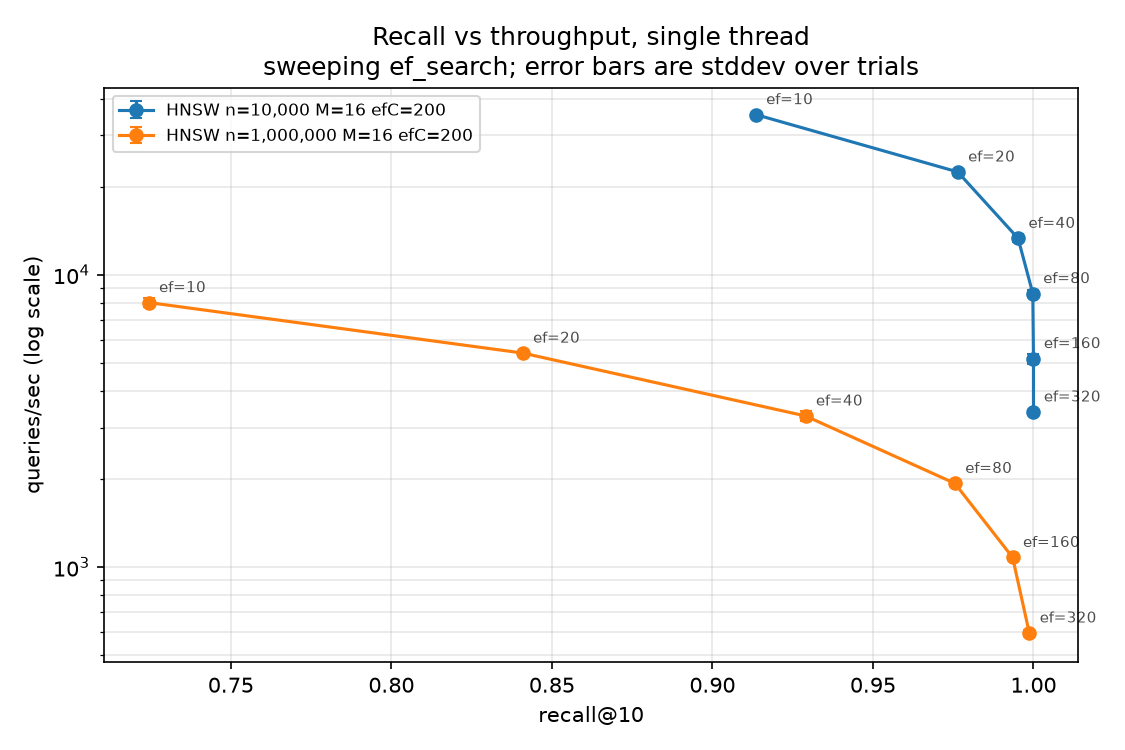
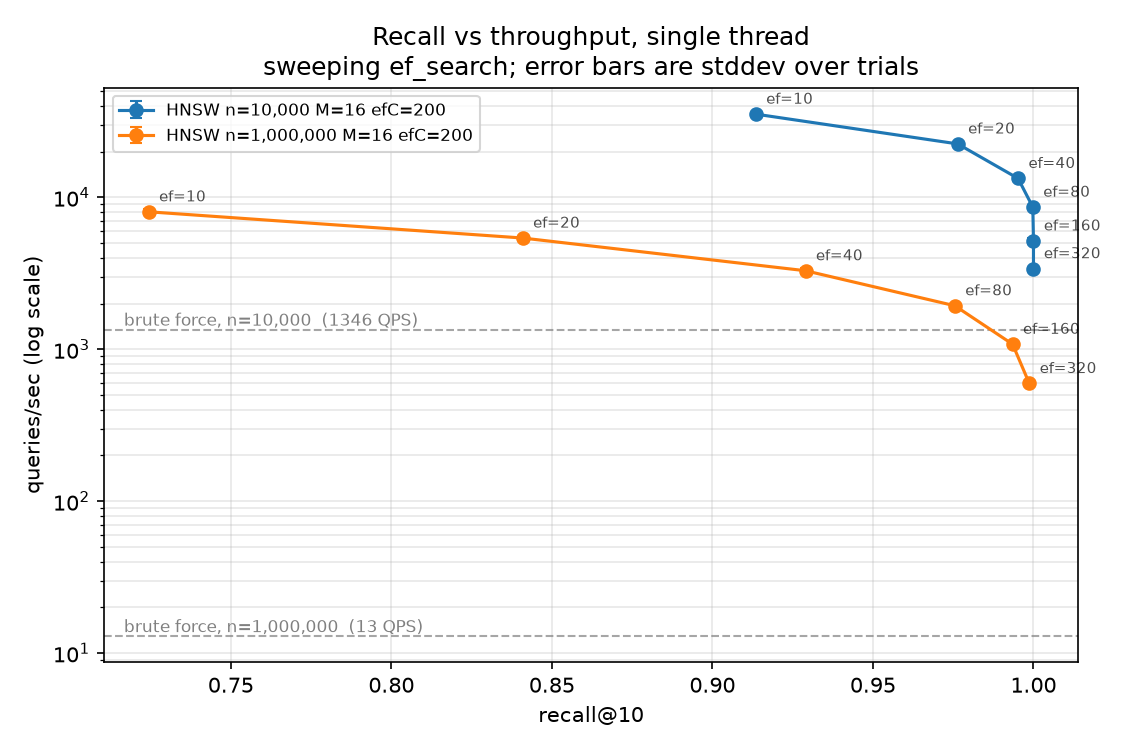
Log B-06: append-only provenance and a strict reader are in conflict
Readers must be version-tolerant and must announce what they ignored. A silent
skip is how a plot ends up missing half its data with nobody noticing.

diff --git a/BUGS.md b/BUGS.md
@@ -29,7 +29,11 @@ story is what the interview is actually about.
 | # | Symptom | Class | Cost |
 |---|---|---|---|
 | B-01 | `TopK` kept the wrong id when distances tied | silent recall loss | ~5 min |
-| B-02 | Fetch script hung 10 min on a blocked port, writing 0 bytes | measurement that measured nothing | ~20 min |
+| B-02 | Fetch script hung 4h48m on a blocked port, writing 0 bytes | measurement that measured nothing | ~20 min |
+| B-03 | Trust check counted the harness's own output as a code change | unreproducible by construction | ~5 min |
+| B-04 | Reported `recall@10 0.253` from a truncated base vs full ground truth | measurement that measured nothing | ~2 min |
+| B-05 | Layout A/B showed the *naive* layout faster; it never reproduced the pathology | measurement that measured nothing | ~25 min |
+| B-06 | One Phase 0 record broke every plot; append-only file outlived its schema | untested code path | ~10 min |
 
 **Phase 0 scorecard:** 7 landmines defused, 0 confirmed bugs, ~1.5 h. Four of the seven
 (L-01, L-02, L-05, L-06) were found by checking a tool *before* depending on it rather than after.
@@ -222,6 +226,32 @@ positive one.** `02_VECCORE.md` calls this comparison "the best performance stor
 the story is better for having been wrong first, because "1.14× sequential, 1.67× random, and here
 is why the second number is the one that matters for HNSW" is a real answer, and "3–10× faster" is
 folklore.
+
+---
+
+### B-06 · One Phase 0 record stopped every plot in the repo regenerating · 2026-08-22 · Phase 2
+
+**Symptom:** `plots.py` died with `KeyError: 'index'` on a `results/bench.jsonl` holding 17 records,
+12 of which were perfectly good.
+
+**Root cause:** `results/` is **append-only by design** — that is the whole point of an audit trail,
+and D10 rule 7 depends on old records staying put so a README number can always be traced back. But
+the record schema has changed twice since Phase 0: `index`, `index_params` and `n_base` were all
+added later. The plotting code indexed those keys directly, so the oldest line in the file killed
+the newest figure.
+
+**Fix:** a `REQUIRED` tuple and a `plottable()` filter that skips records missing any of it, and
+*says how many it skipped and which fields were missing* — rather than silently dropping them,
+which would be the other way to get this wrong.
+
+**Cost:** ~10 minutes, and it would have recurred at every phase boundary. Phases 3, 4 and 5 each
+add fields.
+
+**The tension worth naming, because it is a real design trade and not just a bug:** an append-only
+results file and a strictly-typed reader are in direct conflict. You cannot have both permanent
+provenance and a schema you are free to change. The resolution is that **readers must be
+version-tolerant, and must announce what they ignored** — a silent skip is how a plot ends up
+missing half its data with nobody noticing. Same shape as L-07: degrade, but never silently.
 
 ---
 

diff --git a/docs/plots/benchmark_table.md b/docs/plots/benchmark_table.md
@@ -1,14 +1,17 @@
 | index | n | params | recall@10 | QPS | p50 ms | p99 ms | index MiB | commit |
 |---|---|---|---|---|---|---|---|---|
+| flat | 10,000 | exact | 1.0000 | 1,346 ± 22 | 0.717 | 1.116 | 4.9 | `262b1b9` |
 | hnsw | 10,000 | M=16 efC=200 efS=10 | 0.9135 | 35,300 ± 266 | 0.027 | 0.048 | 6.3 | `24a82f7` |
-| hnsw | 10,000 | M=16 efC=200 efS=160 | 1.0000 | 5,168 ± 205 | 0.188 | 0.434 | 6.3 | `24a82f7` |
 | hnsw | 10,000 | M=16 efC=200 efS=20 | 0.9764 | 22,477 ± 406 | 0.043 | 0.094 | 6.3 | `24a82f7` |
-| hnsw | 10,000 | M=16 efC=200 efS=320 | 1.0000 | 3,395 ± 55 | 0.292 | 0.512 | 6.3 | `24a82f7` |
 | hnsw | 10,000 | M=16 efC=200 efS=40 | 0.9952 | 13,323 ± 431 | 0.073 | 0.149 | 6.3 | `24a82f7` |
 | hnsw | 10,000 | M=16 efC=200 efS=80 | 0.9998 | 8,623 ± 230 | 0.116 | 0.221 | 6.3 | `24a82f7` |
+| hnsw | 10,000 | M=16 efC=200 efS=160 | 1.0000 | 5,168 ± 205 | 0.188 | 0.434 | 6.3 | `24a82f7` |
+| hnsw | 10,000 | M=16 efC=200 efS=320 | 1.0000 | 3,395 ± 55 | 0.292 | 0.512 | 6.3 | `24a82f7` |
+| flat | 200,000 | exact | 1.0000 (exact) | 61 ± 2 | 16.595 | 18.972 | 97.7 | `262b1b9` |
+| flat | 1,000,000 | exact | 0.9995 | 13 ± 1 | 76.033 | 103.561 | 488.3 | `262b1b9` |
 | hnsw | 1,000,000 | M=16 efC=200 efS=10 | 0.7244 | 8,033 ± 291 | 0.119 | 0.256 | 629.0 | `24a82f7` |
-| hnsw | 1,000,000 | M=16 efC=200 efS=160 | 0.9935 | 1,079 ± 10 | 0.950 | 1.513 | 629.0 | `24a82f7` |
 | hnsw | 1,000,000 | M=16 efC=200 efS=20 | 0.8409 | 5,397 ± 39 | 0.182 | 0.330 | 629.0 | `24a82f7` |
-| hnsw | 1,000,000 | M=16 efC=200 efS=320 | 0.9987 | 595 ± 15 | 1.709 | 2.791 | 629.0 | `24a82f7` |
 | hnsw | 1,000,000 | M=16 efC=200 efS=40 | 0.9290 | 3,288 ± 138 | 0.304 | 0.550 | 629.0 | `24a82f7` |
 | hnsw | 1,000,000 | M=16 efC=200 efS=80 | 0.9755 | 1,934 ± 15 | 0.528 | 0.832 | 629.0 | `24a82f7` |
+| hnsw | 1,000,000 | M=16 efC=200 efS=160 | 0.9935 | 1,079 ± 10 | 0.950 | 1.513 | 629.0 | `24a82f7` |
+| hnsw | 1,000,000 | M=16 efC=200 efS=320 | 0.9987 | 595 ± 15 | 1.709 | 2.791 | 629.0 | `24a82f7` |
